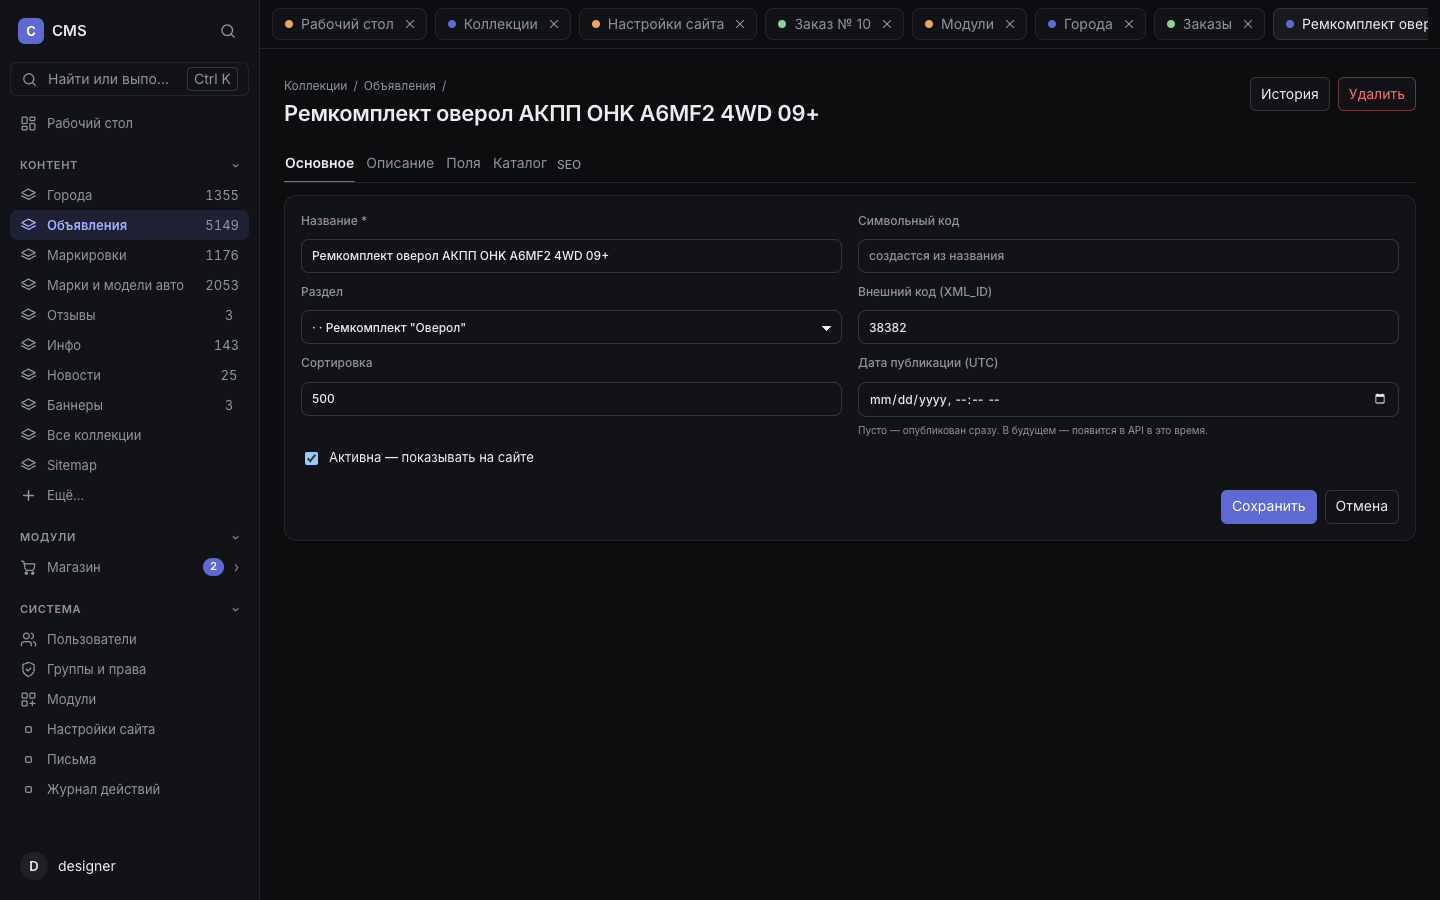
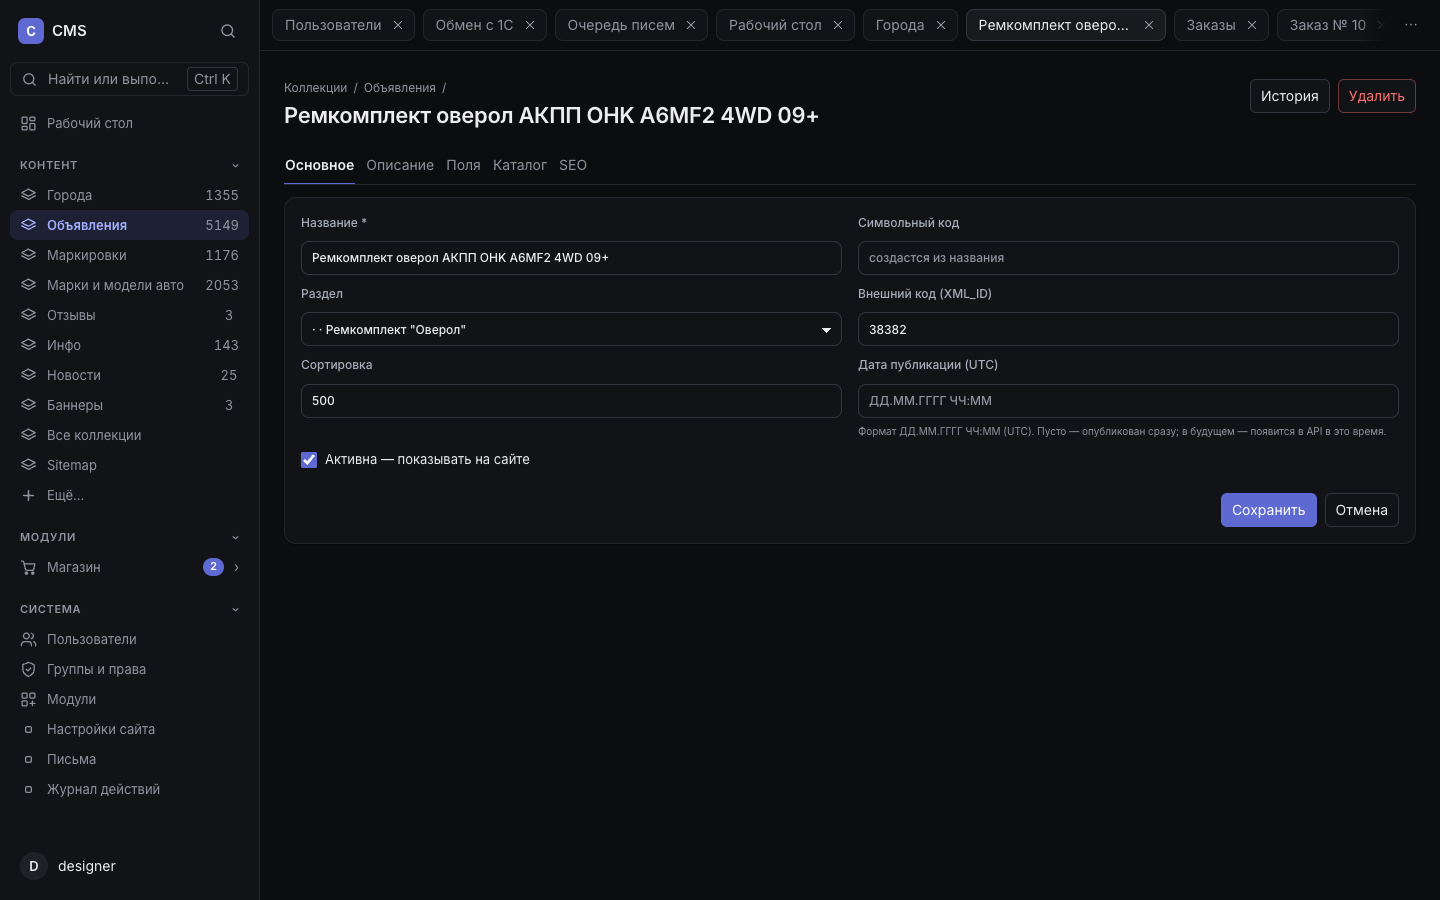
Дизайн: дата публикации в RU-формате и фиксированные колонки таблиц

diff --git a/templates/admin/item_form.html b/templates/admin/item_form.html
@@ -63,8 +63,8 @@
       <input name="sort" type="number" value="{{ form.sort }}">
     </label>
     <label>Дата публикации (UTC)
-      <input name="published_at" type="datetime-local" value="{{ form.published_at }}">
-      <small>Пусто — опубликован сразу. В будущем — появится в API в это время.</small>
+      <input name="published_at" value="{{ form.published_at }}" placeholder="ДД.ММ.ГГГГ ЧЧ:ММ" inputmode="numeric">
+      <small>Формат ДД.ММ.ГГГГ ЧЧ:ММ (UTC). Пусто — опубликован сразу; в будущем — появится в API в это время.</small>
     </label>
   </div>
   <label class="check"><input type="checkbox" name="active" {% if form.active %}checked{% endif %}> Активна — показывать на сайте</label>

diff --git a/templates/admin/seo_form.html b/templates/admin/seo_form.html
@@ -19,7 +19,7 @@
 {% for value, label in [("", "Наследовать"), ("index,follow", "Индексировать, переходить по ссылкам"), ("noindex,follow", "Не индексировать, переходить по ссылкам"), ("index,nofollow", "Индексировать, не переходить по ссылкам"), ("noindex,nofollow", "Не индексировать, не переходить по ссылкам")] %}
 <option value="{{ value }}" {% if form.robots == value %}selected{% endif %}>{{ label }}</option>
 {% endfor %}</select></label>
-<button class="btn primary" type="submit">Сохранить</button>
+<div class="form-actions"><button class="btn primary" type="submit">Сохранить</button></div>
 </form>
 <div class="card">
 <h2>Результат сохранённых настроек</h2>

diff --git a/static/admin/design.css b/static/admin/design.css
@@ -285,7 +285,8 @@ td { padding: 8px var(--sp-3); }
 .tabs-all-menu a:hover { background: var(--hover); text-decoration: none; }
 .tabs-all-menu a.on { background: var(--accent-soft); color: var(--accent-text); font-weight: 600; }
 
-.users-table { min-width: 0; width: 100%; table-layout: fixed; }
+.users-table, .table-fixed { min-width: 0; width: 100%; table-layout: fixed; }
+.table-fixed th, .table-fixed td { overflow: hidden; text-overflow: ellipsis; white-space: nowrap; }
 .users-table th, .users-table td { overflow: hidden; text-overflow: ellipsis; white-space: nowrap; }
 .users-table .groups { max-width: none; }
 

diff --git a/templates/admin/collections.html b/templates/admin/collections.html
@@ -9,7 +9,8 @@
 
 {% if items %}
 <div class="card table-wrap">
-  <table>
+  <table class="table-fixed">
+    <colgroup><col style="width:56px"><col><col style="width:160px"><col style="width:110px"><col style="width:90px"><col style="width:80px"><col style="width:100px"></colgroup>
     <thead>
       <tr><th>ID</th><th>Название</th><th>Код</th><th>Записей</th><th>API</th><th>Сорт.</th><th></th></tr>
     </thead>

diff --git a/templates/admin/groups.html b/templates/admin/groups.html
@@ -9,7 +9,8 @@
 
 {% if items %}
 <div class="card table-wrap">
-  <table>
+  <table class="table-fixed">
+    <colgroup><col style="width:56px"><col><col style="width:160px"><col style="width:240px"><col style="width:120px"><col style="width:90px"></colgroup>
     <thead>
       <tr><th>ID</th><th>Название</th><th>Код</th><th>Права</th><th>Участников</th><th></th></tr>
     </thead>

diff --git a/src/admin/items.rs b/src/admin/items.rs
@@ -6,7 +6,7 @@ use axum::{
     http::HeaderMap,
     response::{Html, IntoResponse, Redirect, Response},
 };
-use chrono::NaiveDateTime;
+use chrono::{NaiveDate, NaiveDateTime};
 use minijinja::context;
 use serde::{Deserialize, Serialize};
 use serde_json::Map;
@@ -161,10 +161,10 @@ fn build_input(
     );
     let published_at = match get("published_at") {
         "" => None,
-        raw => match NaiveDateTime::parse_from_str(raw, DATETIME_FORMAT) {
-            Ok(dt) => Some(dt.and_utc()),
-            Err(_) => {
-                errors.push("main", "Неверная дата публикации");
+        raw => match parse_datetime(raw) {
+            Some(dt) => Some(dt.and_utc()),
+            None => {
+                errors.push("main", "Дата публикации: ожидается ДД.ММ.ГГГГ ЧЧ:ММ");
                 None
             }
         },
@@ -273,7 +273,7 @@ fn element_to_form(element: &Item, properties: &[Field]) -> FormValues {
         }
     }
     if let Some(dt) = element.published_at {
-        form.set("published_at", dt.format(DATETIME_FORMAT).to_string());
+        form.set("published_at", dt.format("%d.%m.%Y %H:%M").to_string());
     }
     for prop in properties {
         if let Some(value) = element.field_values.get(&prop.code) {
@@ -846,6 +846,19 @@ async fn save_seo(db: &sqlx::PgPool, item_id: i64, form: &FormValues) {
         // Карточка уже сохранена: SEO-ошибка не должна откатывать основную запись
         tracing::warn!(item_id, ?error, "SEO записи не сохранено");
     }
+}
+
+/// Дата из поля: `ДД.ММ.ГГГГ ЧЧ:ММ`, `ДД.ММ.ГГГГ` или старый ISO `ГГГГ-ММ-ДДTЧЧ:ММ`.
+fn parse_datetime(raw: &str) -> Option<NaiveDateTime> {
+    let raw = raw.trim();
+    NaiveDateTime::parse_from_str(raw, "%d.%m.%Y %H:%M")
+        .or_else(|_| NaiveDateTime::parse_from_str(raw, DATETIME_FORMAT))
+        .ok()
+        .or_else(|| {
+            NaiveDate::parse_from_str(raw, "%d.%m.%Y")
+                .ok()
+                .and_then(|date| date.and_hms_opt(0, 0, 0))
+        })
 }
 
 /// Работа с предложениями требует записи и в коллекции товаров.
@@ -1999,6 +2012,27 @@ mod tests {
     }
 
     #[test]
+    fn published_date_accepts_ru_and_iso() {
+        assert_eq!(
+            super::parse_datetime("27.09.2026 10:30")
+                .unwrap()
+                .to_string(),
+            "2026-09-27 10:30:00"
+        );
+        assert_eq!(
+            super::parse_datetime("27.09.2026").unwrap().to_string(),
+            "2026-09-27 00:00:00"
+        );
+        assert_eq!(
+            super::parse_datetime("2026-09-27T10:30")
+                .unwrap()
+                .to_string(),
+            "2026-09-27 10:30:00"
+        );
+        assert!(super::parse_datetime("вчера").is_none());
+    }
+
+    #[test]
     fn autogenerates_code_and_parses_props() {
         let form = form(&[
             ("name", "Первая новость"),
@@ -2049,7 +2083,7 @@ mod tests {
             ),
             (
                 &[("name", "А"), ("published_at", "вчера")],
-                "Неверная дата",
+                "Дата публикации: ожидается",
                 "main",
             ),
             (

diff --git a/docs/design.md b/docs/design.md
@@ -112,6 +112,15 @@ Description, H1, Canonical и индексация сохраняются общ
 вместе с записью (SEO пишется после сохранения, ошибка SEO не откатывает
 запись). Отдельная страница осталась для просмотра наследованных значений.
 
+### Батч 3: даты и таблицы
+
+- «Дата публикации» в карточке — текстовое поле `ДД.ММ.ГГГГ ЧЧ:ММ` (UTC) вместо
+  системного `datetime-local`: формат больше не зависит от локали браузера.
+  Сервер принимает `ДД.ММ.ГГГГ ЧЧ:ММ`, `ДД.ММ.ГГГГ` и старый ISO.
+- Фиксированные колонки (`table-fixed` + `colgroup`) для групп и коллекций:
+  длинные названия обрезаются, действия не уезжают.
+- Кнопка сохранения на отдельной странице SEO выровнена как в остальных формах.
+
 ## Как смотреть
 
 ```bash
